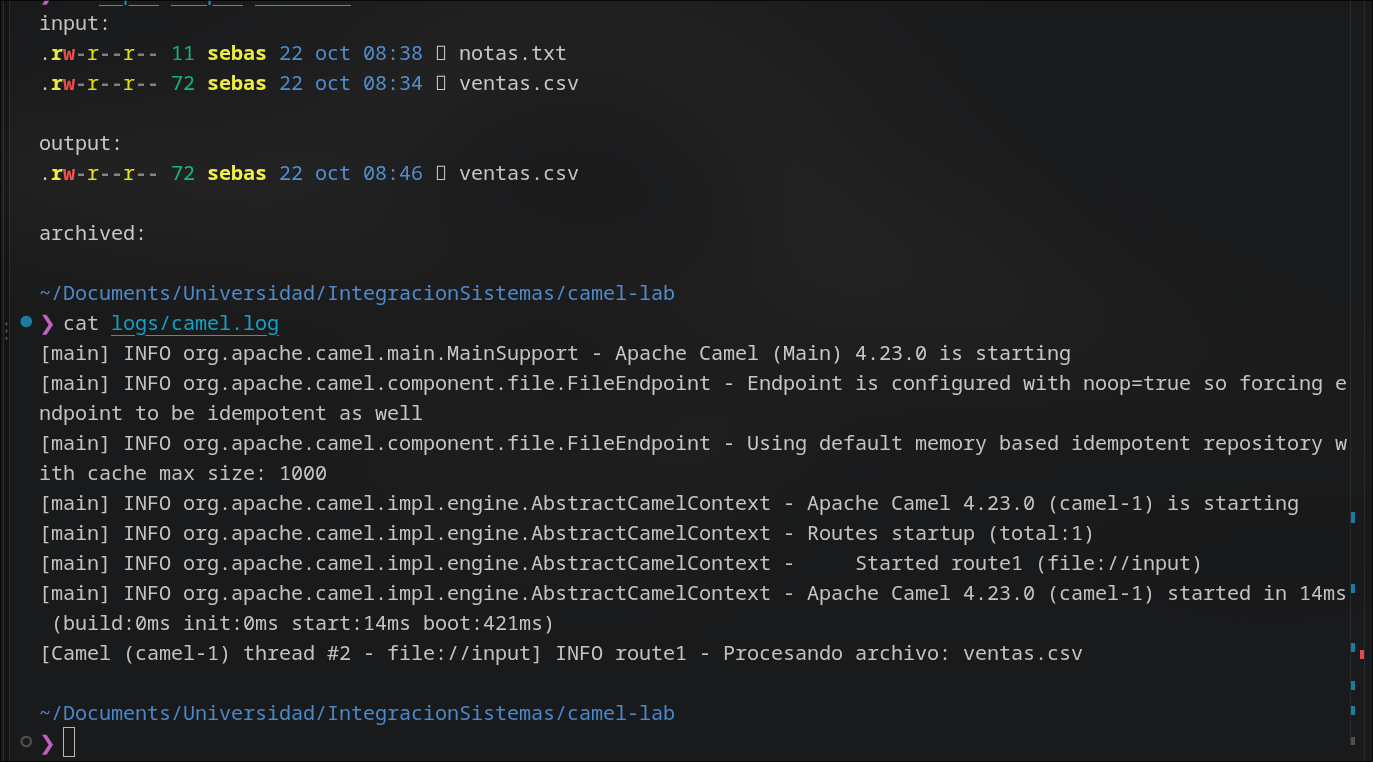
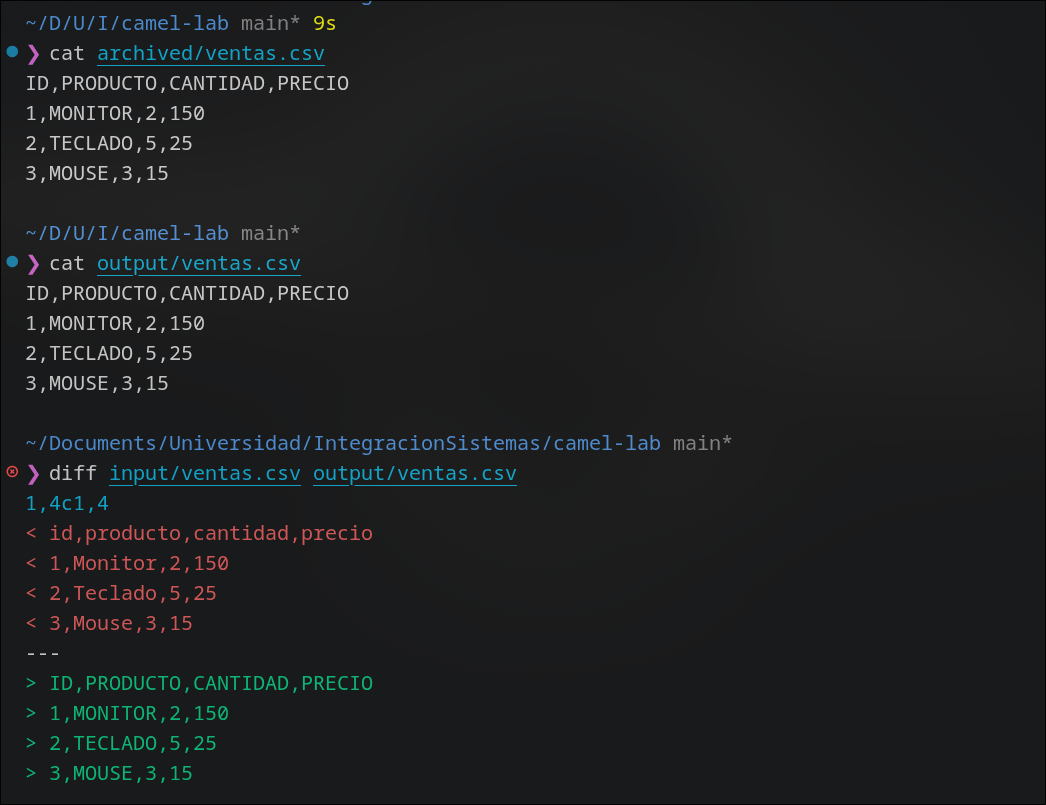
update images and code

diff --git a/guia/GUIA.md b/guia/GUIA.md
@@ -269,9 +269,9 @@ javac -cp "lib/*" FileTransferRoute.java
 java -cp ".:lib/*" FileTransferRoute 2>&1 | tee logs/camel.log
 ```
 
-`tee` muestra los logs en pantalla **y** los guarda en `logs/camel.log`.
+`tee` muestra los logs en pantalla **y** los guarda en `logs/camel.log`. El `2>&1` es necesario porque `slf4j-simple` escribe los logs por **stderr**; sin él, `camel.log` queda vacío.
 
-Debes ver dos líneas de log (procesando + archivando) y **ninguna** para `notas.txt`. Ctrl+C y revisa:
+Debes ver dos líneas de log (procesando + archivando) y **ninguna** para `notas.txt`. **Espera unos 3 segundos** hasta que salga `Archivando ventas.csv el ...` (la Ruta 2 sólo actúa cuando revisa `output`, después de que la Ruta 1 escribió ahí). Luego Ctrl+C y revisa:
 
 ```fish
 ls input output archived
@@ -315,6 +315,19 @@ gh repo create camel-lab --public --source=. --push
 
 (Si no tienes `gh`: crea el repo vacío en github.com y sigue sus instrucciones de `git remote add` / `git push`.)
 `lib/` no se sube: se regenera con `mvn dependency:copy-dependencies -DoutputDirectory=lib`.
+
+---
+
+## Problemas encontrados y soluciones
+
+| # | Paso | Síntoma | Causa | Solución |
+|---|------|---------|-------|----------|
+| 1 | 0.2 | No existe `.zip` binario con `lib/` | Camel 4 sólo publica el código fuente | `pom.xml` mínimo + `mvn dependency:copy-dependencies -DoutputDirectory=lib` |
+| 2 | 4 | `Cannot find RoutesBuilderLoader in classpath supporting file extension: md` | Había una carpeta `camel/` con `GUIA.md`; Camel Main carga `classpath:camel/*` como rutas y `.` está en el classpath | Mover la guía a otra carpeta (`guia/`) |
+| 3 | 5 | `Method with name: toUpperCase() not found on bean: GenericFile[ventas.csv]`, repetido en bucle | En Camel 4 el body de `file:` es un `GenericFile`, no texto; al fallar hace rollback y lo reintenta en cada sondeo | `.convertBodyTo(String.class)` antes del `.transform()` |
+| 4 | 5–6 | `fish: No matches for wildcard 'archived/*'` y no se borra nada | En fish, un comodín sin coincidencias cancela todo el comando | `rm -rf output archived; mkdir output archived` |
+| 5 | 6 | `logs/camel.log` vacío | Los logs salen por stderr y `\|` sólo pasa stdout | `java ... 2>&1 \| tee logs/camel.log` |
+| 6 | 6 | `archived/` vacío | Se detuvo con Ctrl+C antes de que la Ruta 2 sondeara `output` | Esperar al log `Archivando ...` antes de Ctrl+C |
 
 ---
 
